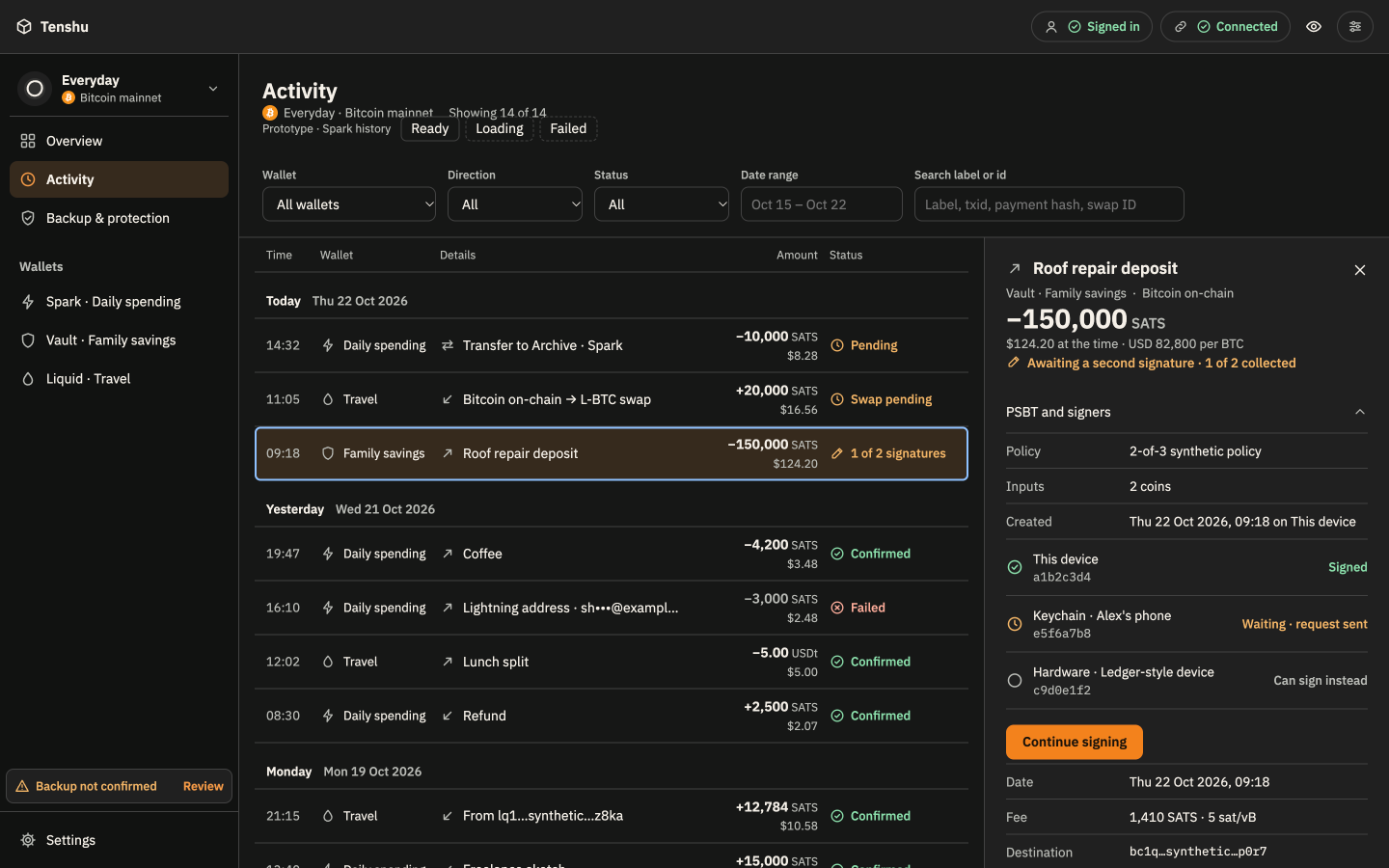
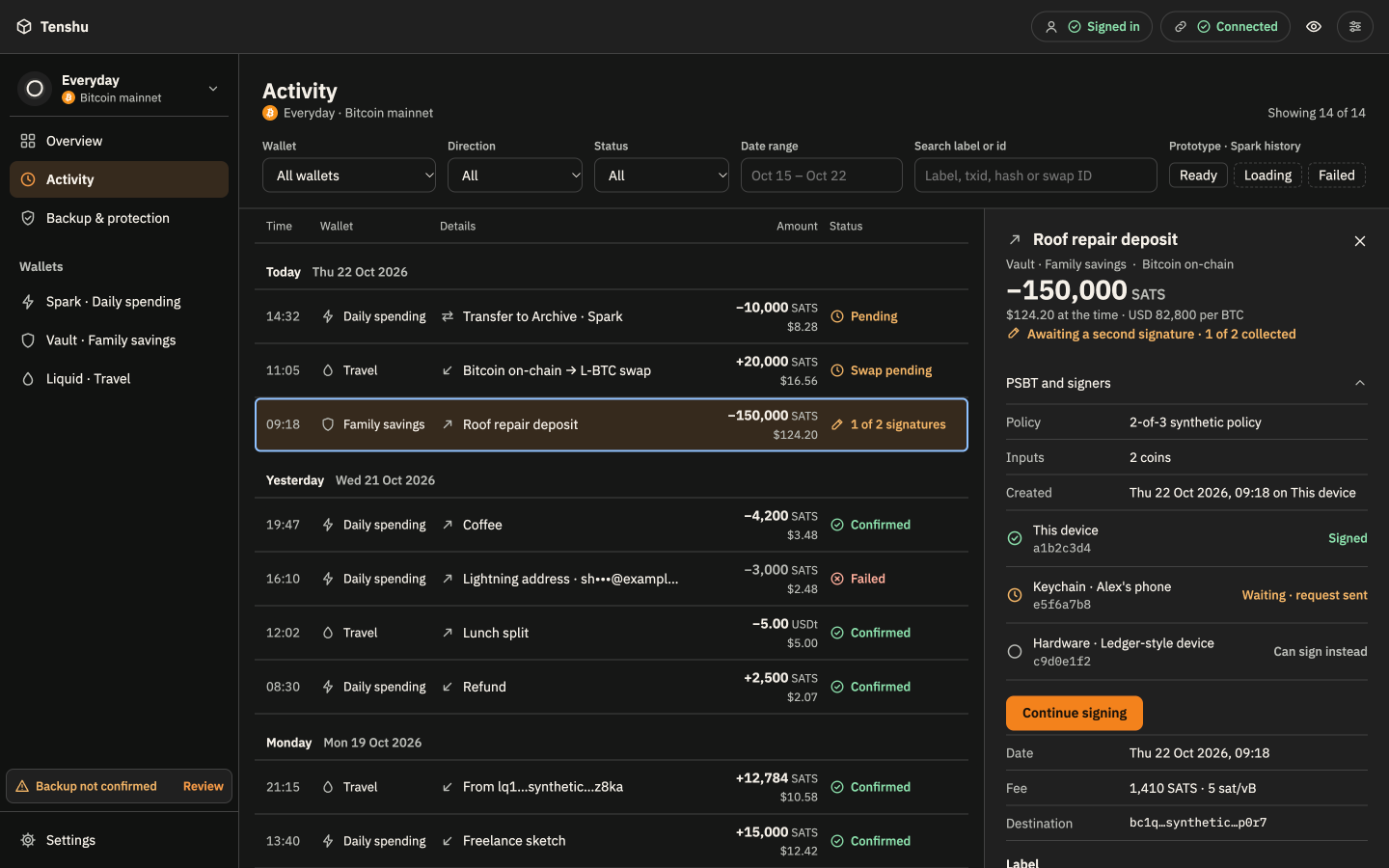
docs: tidy Activity header, drop This device scope, balance eye on Overview
Activity: prototype history states move to the end of the filter row and
the filter summary joins the result count. Settings loses the This device
scope; its only contents duplicated App preferences and Spark settings.
The Overview top bar gains the hide-balances eye every other Cube screen
has. Screens and sources updated to canvas v117.

diff --git a/design-review/canvas/P-Settings.dc.html b/design-review/canvas/P-Settings.dc.html
@@ -272,7 +272,6 @@ a.brand{color:inherit;text-decoration:none;border-radius:6px}a.brand:hover{color
           <sc-for list="{{ scopes }}" as="s" hint-placeholder-count="4">
             <button type="button" class="sb" aria-pressed="{{ s.pressed }}" title="{{ s.label }}" onClick="{{ s.pick }}">
               <sc-if value="{{ s.cube }}" hint-placeholder-val="{{ true }}"><svg class="ic s" aria-hidden="true" viewBox="0 0 18 18"><path d="M9 1.75 15.5 5.5v7L9 16.25 2.5 12.5v-7z"/><path d="M2.5 5.5 9 9.25l6.5-3.75M9 9.25v7"/></svg></sc-if>
-              <sc-if value="{{ s.device }}" hint-placeholder-val="{{ false }}"><svg class="ic s" aria-hidden="true" viewBox="0 0 18 18"><rect x="2" y="3" width="14" height="9.5" rx="1.5"/><path d="M6 15.5h6M9 12.5v3"/></svg></sc-if>
               <sc-if value="{{ s.vault }}" hint-placeholder-val="{{ false }}"><svg class="ic s" aria-hidden="true" viewBox="0 0 18 18"><path d="M9 2 3.5 4v4.5c0 3.4 2.3 6.1 5.5 7.5 3.2-1.4 5.5-4.1 5.5-7.5V4z"/></svg></sc-if>
               <sc-if value="{{ s.spark }}" hint-placeholder-val="{{ false }}"><svg class="ic s" aria-hidden="true" viewBox="0 0 18 18"><path d="M10 2 4 10h4.5L8 16l6-8H9.5z"/></svg></sc-if>
               <span>{{ s.label }}</span>
@@ -422,16 +421,6 @@ a.brand{color:inherit;text-decoration:none;border-radius:6px}a.brand:hover{color
               <div class="row"><div class="rl"><p class="lb">Labels</p><p class="ds">Standard format other wallets can read.</p></div><div class="rc"><button type="button" class="btn">Export…</button><button type="button" class="btn">Import…</button></div></div>
               <div class="row"><div class="rl"><p class="lb">Transactions</p><p class="ds">CSV. Fiat uses this Cube’s rate source.</p></div><div class="rc"><button type="button" class="btn">Export…</button></div></div>
               <div class="row"><div class="rl"><p class="lb">Plaintext descriptor</p><p class="ds">For hardware registration or other wallets.</p></div><div class="rc"><button type="button" class="btn">Export…</button></div></div>
-            </div>
-          </section>
-        </sc-if>
-
-        <!-- ======== THIS DEVICE ======== -->
-        <sc-if value="{{ sec.device }}" hint-placeholder-val="{{ false }}">
-          <section class="grp" aria-label="This device">
-            <div class="rows">
-              <div class="row"><div class="rl"><p class="lb">App preferences live in the Launcher</p></div><div class="rc"><a class="btn" href="P-AppPrefs.dc.html">Open App preferences</a></div></div>
-              <div class="row"><div class="rl"><p class="lbl-line"><span class="lb">Spark · Stable Balance</span><span class="st {{ dev.cls }}"><svg class="ic s" aria-hidden="true" viewBox="0 0 18 18"><circle class="gc" cx="9" cy="9" r="6.5"/><path class="g go" d="M6 9h6"/></svg>{{ dev.status }}</span></p><p class="ds">{{ dev.text }}</p></div><div class="rc"><sc-if value="{{ has.spark }}" hint-placeholder-val="{{ true }}"><button type="button" class="btn" onClick="{{ go.spark }}">Review in Spark</button></sc-if></div></div>
             </div>
           </section>
         </sc-if>
@@ -684,7 +673,7 @@ a.brand{color:inherit;text-decoration:none;border-radius:6px}a.brand:hover{color
 </div>
 <p style="margin:12px 24px 0;font-size:12px;color:var(--muted)">More Settings screens: <a href="P-GapsAccount.dc.html" style="font-size:12px;color:var(--muted);text-decoration:underline;text-underline-offset:3px;margin-right:12px">Recovery Kit mode, alerts scope, Avatar</a><a href="P-GapsWallets.dc.html" style="font-size:12px;color:var(--muted);text-decoration:underline;text-underline-offset:3px;margin-right:12px">Node settings extras, RBF, feerate, Vault overview states</a><a href="P-GapsDetails.dc.html" style="font-size:12px;color:var(--muted);text-decoration:underline;text-underline-offset:3px;margin-right:12px">Banners, checkout, Add to Cubes, Spark guard, batch label, share wallet, split entry</a></p>
 </x-dc>
-<script type="text/x-dc" data-dc-script data-props='{"theme":{"editor":"enum","options":["dark","light"],"default":"dark","section":"Review"},"reducedMotion":{"editor":"boolean","default":false,"section":"Review"},"hideBalances":{"editor":"boolean","default":false,"section":"Review"},"scope":{"editor":"enum","options":["cube","device","vault","spark"],"default":"cube","section":"Review"},"section":{"editor":"enum","options":["display","backup","payments","ai","data","wallet","node","pair","connections","spark"],"default":"display","section":"Review"},"reviewState":{"editor":"enum","options":["normal","loading","signedOut","cubeDisconnected","offlineNode","noVault","importedVault","testnetSparkUnavailable","longNames","saveFailure"],"default":"normal","section":"Review"},"pairStep":{"editor":"enum","options":["idle","picker","waiting","error","paired"],"default":"idle","section":"Review"},"lnState":{"editor":"enum","options":["existing","claim","checking","signed-out","disconnected","error"],"default":"existing","section":"Review"},"alertsState":{"editor":"enum","options":["auto","verified","unknown","signedOut","denied"],"default":"auto","section":"Review"},"$preview":{"width":1440,"height":900}}'>
+<script type="text/x-dc" data-dc-script data-props='{"theme":{"editor":"enum","options":["dark","light"],"default":"dark","section":"Review"},"reducedMotion":{"editor":"boolean","default":false,"section":"Review"},"hideBalances":{"editor":"boolean","default":false,"section":"Review"},"scope":{"editor":"enum","options":["cube","vault","spark"],"default":"cube","section":"Review"},"section":{"editor":"enum","options":["display","backup","payments","ai","data","wallet","node","pair","connections","spark"],"default":"display","section":"Review"},"reviewState":{"editor":"enum","options":["normal","loading","signedOut","cubeDisconnected","offlineNode","noVault","importedVault","testnetSparkUnavailable","longNames","saveFailure"],"default":"normal","section":"Review"},"pairStep":{"editor":"enum","options":["idle","picker","waiting","error","paired"],"default":"idle","section":"Review"},"lnState":{"editor":"enum","options":["existing","claim","checking","signed-out","disconnected","error"],"default":"existing","section":"Review"},"alertsState":{"editor":"enum","options":["auto","verified","unknown","signedOut","denied"],"default":"auto","section":"Review"},"$preview":{"width":1440,"height":900}}'>
 class Component extends DCLogic {
   constructor(p){
     super(p); try { const bump = () => { try { this.setState({ protoTick: Date.now() }); } catch (e) {} }; window.addEventListener('tenshu-proto', bump); window.addEventListener('storage', bump); } catch (e) {}
@@ -713,7 +702,6 @@ class Component extends DCLogic {
     // scope + section: levers seed it, in-page clicks override until a lever changes
     const SC={
       cube:{label:'Cube · '+cubeName,line:'Cube · '+cubeName+' · '+net,tabs:[['display','Display & appearance'],['backup','Backup & protection'],['payments','Payment checks'],['ai','AI access'],['data','Data & exports']]},
-      device:{label:'This device',line:'This device · every Cube on This Mac',tabs:[]},
       vault:{label:noVault?'Vault · none':'Vault · '+vaultAlias,line:(noVault?'Vault · none in this Cube':'Vault · '+vaultAlias)+' · '+net,tabs:[['wallet','Wallet & signers'],['node','Node'],['pair','Pair with Keychain'],['connections','Connections'],['data','Data & exports']]},
       spark:{label:hasSpark?'Spark · Daily spending':'Spark · unavailable',line:(hasSpark?'Spark · Daily spending':'Spark · unavailable')+' · '+net,tabs:[['spark','Spark'],['connections','Connections']]}
     };
@@ -723,7 +711,7 @@ class Component extends DCLogic {
     const sel=(S.sel&&S.sel.for===key)?S.sel:lever;
     const scope=sel.scope,tab=sel.tab,cs=SC[scope];
     const setTo=(sc,tb)=>()=>self.setState({sel:{for:key,scope:sc,tab:fit(sc,tb||'')}});
-    const scopes=['cube','device','vault','spark'].map(k=>({label:SC[k].label,pressed:k===scope?'true':'false',pick:setTo(k),cube:k==='cube',device:k==='device',vault:k==='vault',spark:k==='spark'}));
+    const scopes=['cube','vault','spark'].map(k=>({label:SC[k].label,pressed:k===scope?'true':'false',pick:setTo(k),cube:k==='cube',vault:k==='vault',spark:k==='spark'}));
     const emptyScope=(scope==='vault'&&noVault)||(scope==='spark'&&!hasSpark);
     const tabs=cs.tabs.map(t=>({label:t[1],cur:t[0]===tab?'page':'false',cls:t[0]===tab?'on':'',pick:setTo(scope,t[0])}));
     const goNode=setTo('vault','node');
@@ -732,7 +720,6 @@ class Component extends DCLogic {
     const on=(sc,tb)=>!loading&&scope===sc&&tab===tb;
     const sec={
       display:on('cube','display'),dataVault:on('vault','data')&&hasVault,backup:on('cube','backup'),payments:on('cube','payments'),ai:on('cube','ai'),dataCube:on('cube','data'),
-      device:!loading&&scope==='device',
       wallet:on('vault','wallet')&&hasVault,node:on('vault','node')&&hasVault,pair:on('vault','pair')&&hasVault,connVault:on('vault','connections')&&hasVault,
       vaultNone:!loading&&scope==='vault'&&noVault,
       spark:on('spark','spark')&&hasSpark,connSpark:on('spark','connections')&&hasSpark,sparkNone:!loading&&scope==='spark'&&!hasSpark
@@ -894,12 +881,11 @@ class Component extends DCLogic {
       lock:{idle:!S.lockAsk,asking:!!S.lockAsk,ask:()=>self.setState({lockAsk:true}),cancel:()=>self.setState({lockAsk:false})},
       chip:chip,hideP:pr(hide),shown:!hide,hidden:hide,toggleHide:()=>self.setState({hide:{for:hb,v:!hide}}),
       has:{spark:hasSpark,vault:hasVault,liquid:!testnet},attn:attn,go:go,
-      scopeLine:cs.line,scopeLabel:cs.label,scopeHasNet:scope!=='device',scopes:scopes,tabs:tabs,showTabs:cs.tabs.length>0&&!emptyScope,
+      scopeLine:cs.line,scopeLabel:cs.label,scopeHasNet:true,scopes:scopes,tabs:tabs,showTabs:cs.tabs.length>0&&!emptyScope,
       loading:loading,skel:[{a:'width:40%',b:'width:65%;margin-top:8px'},{a:'width:30%',b:'width:50%;margin-top:8px'},{a:'width:45%',b:'width:60%;margin-top:8px'},{a:'width:35%',b:'width:40%;margin-top:8px'}],
       sec:sec,form:form,avatar:avatar,bk:bk,alerts:alerts,noVault:noVault,offline:offline,imported:imported,
       chk:chk,strictP:pr(S.strict),strictText:S.strict?'On':'Off',togStrict:()=>self.setState({strict:!S.strict}),
       dataVaultText:noVault?'No Vault in this Cube.':'Exported per Vault.',
-      dev:hasSpark?{cls:'s-off',status:'Off',text:'Doesn’t travel with the seed.'}:{cls:'s-off',status:'Not available',text:'Spark isn’t available on Testnet4.'},
       signers:signers,aliasClean:!aliasDirty,aliasMsg:aliasDirty?'Unsaved name changes':'',
       aliasDiscard:()=>self.setState({aliases:{for:rs,v:savedA}}),aliasSave:()=>self.setState({aliasSaved:{for:rs,v:curA}}),
       pair:pair,pairKeys:pairKeys,phones:phones,noop:()=>{},

diff --git a/design-review/canvas/P-Activity.dc.html b/design-review/canvas/P-Activity.dc.html
@@ -70,7 +70,9 @@ a{color:#f3821d}a:hover{color:#ffa54d}
 .phd h1{font-size:22px;font-weight:600;line-height:1.25}
 .idl{color:var(--muted);font-size:13px;margin-top:4px;display:flex;align-items:center;gap:6px}
 .idl>img{width:16px;height:16px;display:block}
-.count{margin-left:auto;font-size:13px;color:var(--muted)}
+.phd{justify-content:space-between}
+.phr{display:flex;align-items:center;gap:10px;white-space:nowrap}
+.count{font-size:13px;color:var(--muted)}
 .pre{font-size:13px;color:var(--muted);padding:6px 24px 0}
 .filters{flex:none;display:flex;align-items:flex-end;gap:12px;padding:16px 24px;border-bottom:1px solid var(--line)}
 .f{display:flex;flex-direction:column;gap:4px}
@@ -79,8 +81,8 @@ a{color:#f3821d}a:hover{color:#ffa54d}
 .ctl:hover{border-color:var(--muted)}
 select.ctl{padding-right:6px;cursor:pointer}
 .f.w{width:180px}.f.d{width:140px}.f.s{width:140px}.f.r{width:168px}.f.q{flex:1;min-width:150px;max-width:280px}
+.f.pst{margin-left:auto;flex:none}.f.pst .flab{font-size:12px;font-weight:500;color:var(--muted)}.pbs{display:flex;align-items:center;gap:6px;height:36px}
 .f .ctl{width:100%}
-.fend{margin-left:auto;display:flex;align-items:center;gap:10px;height:36px;white-space:nowrap}
 .fcount{font-size:13px;font-weight:500}
 .lbtn{border:0;background:none;padding:4px 6px;color:var(--acc-ink);font-weight:600;cursor:pointer;border-radius:6px;font-size:13px}
 .lbtn:hover{background:var(--hover)}
@@ -173,8 +175,6 @@ select.ctl{padding-right:6px;cursor:pointer}
 
 /* prototype links */
 .tenshu a.chip{color:var(--ink);text-decoration:none}.tenshu a.chip:hover{background:var(--hover,var(--selected))}.tenshu a.ni,.tenshu a.row{color:var(--ink);text-decoration:none}.tenshu a.pill,.tenshu a.rlink,.tenshu a.attn{text-decoration:none}.tenshu span.mini{display:inline-flex;align-items:center}
-.proto{display:flex;align-items:center;flex-wrap:wrap;gap:6px;margin-top:12px}
-.proto .pl{font-size:12px;color:var(--muted);margin-right:4px}
 .pb{height:26px;padding:0 10px;border:1px dashed var(--line);border-radius:6px;background:transparent;color:var(--muted);font-size:12px;cursor:pointer}
 .pb[aria-pressed="true"]{color:var(--ink);border-style:solid}
 .av{display:inline-grid;place-items:center;width:32px;height:32px;border-radius:50%;background:var(--panel);color:var(--ink);flex:none}
@@ -201,9 +201,8 @@ select.ctl{padding-right:6px;cursor:pointer}
 .side .lockq p,.side .lockask>span{margin:0;flex:1 1 100%}
 .side .lockgrp{display:contents}
 a.brand{color:inherit;text-decoration:none;border-radius:6px}a.brand:hover{color:var(--acc-ink)}
-/* declutter (Robert, 2026-10-23): one amount cell, lighter detail panel, prototype strip under the title */
+/* declutter (Robert, 2026-10-23): one amount cell, lighter detail panel; prototype states sit at the end of the filter row */
 .amt .fx{display:block;font-size:12px;font-weight:400;color:var(--muted);margin-top:1px}
-.proto.strip{padding:0 24px 10px;margin-top:-6px}
 .cpy{height:28px;width:28px;padding:0;justify-content:center;border-radius:6px}
 .ids li{padding:8px 0}
 .dl>div{padding:8px 0}
@@ -265,11 +264,13 @@ a.brand{color:inherit;text-decoration:none;border-radius:6px}a.brand:hover{color
           <h1>Activity</h1>
           <p class="idl"><img src="/_blob/dbbfc88f16f7cc27510d81f434c268ea" alt="">Everyday · Bitcoin mainnet</p>
         </div>
-        <p class="count" role="status">{{ countText }}</p>
-      </div>
-      <div class="proto strip" role="group" aria-label="Prototype states">
-        <span class="pl">Prototype · Spark history</span>
-        <sc-for list="{{ shOpts }}" as="o" hint-placeholder-count="3"><button type="button" class="pb" aria-pressed="{{ o.on }}" onClick="{{ o.pick }}">{{ o.label }}</button></sc-for>
+        <div class="phr">
+          <sc-if value="{{ hasFilters }}" hint-placeholder-val="{{ false }}">
+            <span class="fcount">{{ activeText }}</span>
+            <button type="button" class="lbtn" onClick="{{ clear }}">Clear filters</button>
+          </sc-if>
+          <p class="count" role="status">{{ countText }}</p>
+        </div>
       </div>
       <sc-if value="{{ preNote.show }}" hint-placeholder-val="{{ false }}"><p class="pre">{{ preNote.text }}</p></sc-if>
 
@@ -292,13 +293,11 @@ a.brand{color:inherit;text-decoration:none;border-radius:6px}a.brand:hover{color
         </div>
         <div class="f q">
           <label for="flt-q">Search label or id</label>
-          <input id="flt-q" class="ctl" type="search" autocomplete="off" placeholder="Label, txid, payment hash, swap ID" value="{{ f.q }}" onInput="{{ on.q }}">
+          <input id="flt-q" class="ctl" type="search" autocomplete="off" placeholder="Label, txid, hash or swap ID" value="{{ f.q }}" onInput="{{ on.q }}">
         </div>
-        <div class="fend">
-          <sc-if value="{{ hasFilters }}" hint-placeholder-val="{{ false }}">
-            <span class="fcount">{{ activeText }}</span>
-            <button type="button" class="lbtn" onClick="{{ clear }}">Clear filters</button>
-          </sc-if>
+        <div class="f pst" role="group" aria-label="Prototype states for Spark history">
+          <span class="flab">Prototype · Spark history</span>
+          <div class="pbs"><sc-for list="{{ shOpts }}" as="o" hint-placeholder-count="3"><button type="button" class="pb" aria-pressed="{{ o.on }}" onClick="{{ o.pick }}">{{ o.label }}</button></sc-for></div>
         </div>
       </form>
       <sc-if value="{{ dateErr }}" hint-placeholder-val="{{ false }}"><p class="ferr" id="flt-dates-err" style="padding:6px 24px 0">Use October 2026 days, like “Oct 15 – Oct 22”.</p></sc-if>

diff --git a/design-review/canvas/P-Overview.dc.html b/design-review/canvas/P-Overview.dc.html
@@ -204,6 +204,10 @@ a.brand{color:inherit;text-decoration:none;border-radius:6px}a.brand:hover{color
         <sc-if value="{{ conn.unk }}" hint-placeholder-val="{{ false }}"><span class="st unk end"><svg class="ic s" aria-hidden="true" viewBox="0 0 18 18"><circle cx="9" cy="9" r="6.5"/><path d="M7.2 7.2a1.9 1.9 0 1 1 2.6 1.75c-.5.25-.8.6-.8 1.15v.4M9 12.6v.01"/></svg>Not checked</span></sc-if>
         <sc-if value="{{ conn.warn }}" hint-placeholder-val="{{ false }}"><span class="st warn"><svg class="ic s" aria-hidden="true" viewBox="0 0 18 18"><path d="M9 2.5 16 15H2z"/><path d="M9 7.5v3M9 12.75v.01"/></svg>Reconnect required</span><button type="button" class="mini">Reconnect</button></sc-if>
       </div>
+      <button type="button" class="eye" aria-pressed="{{ hide.allP }}" aria-label="Hide balances" onClick="{{ toggleAll }}">
+        <sc-if value="{{ hide.allShown }}" hint-placeholder-val="{{ true }}"><svg class="ic" aria-hidden="true" viewBox="0 0 18 18"><path d="M1.75 9S4.5 4 9 4s7.25 5 7.25 5S13.5 14 9 14 1.75 9 1.75 9z"/><circle cx="9" cy="9" r="2.25"/></svg></sc-if>
+        <sc-if value="{{ hide.all }}" hint-placeholder-val="{{ false }}"><svg class="ic" aria-hidden="true" viewBox="0 0 18 18"><path d="M1.75 9S4.5 4 9 4s7.25 5 7.25 5S13.5 14 9 14 1.75 9 1.75 9z"/><circle cx="9" cy="9" r="2.25"/><path d="M3 3l12 12"/></svg></sc-if>
+      </button>
       <a class="chip" href="P-AppPrefs-InCube.dc.html" title="App preferences" aria-label="App preferences" style="padding:0 10px"><svg class="ic s muted" aria-hidden="true" viewBox="0 0 18 18"><path d="M3 5h12M3 9h12M3 13h12"/><circle cx="7" cy="5" r="1.6" fill="var(--panel)"/><circle cx="12" cy="9" r="1.6" fill="var(--panel)"/><circle cx="6" cy="13" r="1.6" fill="var(--panel)"/></svg></a>
     </div>
   </header>
@@ -529,7 +533,9 @@ class Component extends DCLogic {
       nv:{overview:nvi('overview'),activity:nvi('activity'),backup:nvi('backup'),spark:nvi('spark'),vault:nvi('vault'),liquid:nvi('liquid'),settings:nvi('settings')},
       attn:attn,
       pg:{overview:page==='overview',vault:page==='vault',spark:page==='spark',liquid:page==='liquid',activity:page==='activity',backup:page==='backup',settings:page==='settings'},
-      hide:{total:hide.total,totalShown:!hide.total,totalP:hide.total?'true':'false',wallets:hw,walletsShown:!hw,walletsP:hw?'true':'false'},
+      hide:{total:hide.total,totalShown:!hide.total,totalP:hide.total?'true':'false',wallets:hw,walletsShown:!hw,walletsP:hw?'true':'false',all:hide.total&&hw,allShown:!(hide.total&&hw),allP:(hide.total&&hw)?'true':'false'},
+      // top-bar eye hides every balance on the page; the section eyes stay as finer controls
+      toggleAll:()=>{const all=!(hide.total&&hide.wallets);self.setState({hide:{for:hb,total:all,wallets:all}});},
       toggleTotal:()=>self.setState({hide:{for:hb,total:!hide.total,wallets:hide.wallets}}),
       toggleWallets:()=>self.setState({hide:{for:hb,total:hide.total,wallets:!hide.wallets}}),
       total:{fiat:m('$41.70',hide.total),sats:m('50,360',hide.total)},
@@ -568,7 +574,6 @@ class Component extends DCLogic {
       })()),
       scopes:[
         {label:'Cube · '+cubeName,desc:'Display, backup, payment checks, exports'},
-        {label:'This device',desc:'App preferences and Stable Balance'},
         {label:'Connect account',desc:signedOut?'Signed out on this device':'alex@example.test · plan, devices and security'},
         {label:vName,desc:'Signers, Keychain pairing, node and maintenance'},
         {label:'Spark · Daily spending',desc:'Lightning Address and connection'}

diff --git a/design-review/canvas/P-Members.dc.html b/design-review/canvas/P-Members.dc.html
@@ -195,7 +195,6 @@ a.brand{color:inherit;text-decoration:none;border-radius:6px}a.brand:hover{color
           <p class="idl"><img src="/_blob/dbbfc88f16f7cc27510d81f434c268ea" alt="">Vault · Family savings · Bitcoin mainnet</p>
           <div class="scopes" role="group" aria-label="Settings scope">
             <button type="button" class="sb" aria-pressed="false">Cube · Everyday</button>
-            <button type="button" class="sb" aria-pressed="false">This device</button>
             <button type="button" class="sb" aria-pressed="true">Vault · Family savings</button>
             <button type="button" class="sb" aria-pressed="false">Spark · Daily spending</button>
           </div>

diff --git a/design-review/canvas/P-GapsAccount.dc.html b/design-review/canvas/P-GapsAccount.dc.html
@@ -237,7 +237,6 @@ a.brand{color:inherit;text-decoration:none;border-radius:6px}a.brand:hover{color
         <p class="idl"><img src="/_blob/dbbfc88f16f7cc27510d81f434c268ea" alt="">Everyday · Bitcoin mainnet</p>
         <div class="scopes" role="group" aria-label="Settings scope">
           <a class="scope on" aria-current="page" href="P-GapsAccount.dc.html">Cube · Everyday</a>
-          <a class="scope" href="P-Overview.dc.html">This device</a>
           <a class="scope" href="P-Connect.dc.html">Connect account</a>
           <a class="scope" href="P-Overview.dc.html">Vault · Family savings</a>
           <a class="scope" href="P-Overview.dc.html">Spark · Daily spending</a>

diff --git a/design-review/tenshu-launcher-and-settings-review.md b/design-review/tenshu-launcher-and-settings-review.md
@@ -755,3 +755,17 @@ While exporting, two regressions of mine surfaced. (1) Removing the cross-tab li
 **Robert:** make a PR with the updated designs exported so Codex can work with them.
 
 **Applied:** `screens/dark/` (34 boards, device settings at their defaults) and `screens/light/` (the Light theme page, 33 boards including the Launcher List view), indexed in `screens/README.md`, and linked from `HANDOFF.md`. The canvas sources in `canvas/` match canvas v113.
+
+## Activity header, Settings scopes, balance eye (2026-10-24, canvas v114–v117)
+
+**Robert:** the Activity header is messy; move Ready, Loading and Failed to the right of the search field.
+
+**Applied:** the title row now holds only the title, the Cube line and, on the right, the result count with "N filters active · Clear filters" when filters are on. The Spark history prototype states (Ready, Loading, Failed) sit at the end of the filter row, after Search. The search placeholder is shortened to "Label, txid, hash or swap ID" so it fits.
+
+**Robert:** the "This device" Settings scope is unnecessary; remove it.
+
+**Applied:** Settings scopes are now Cube, Vault and Spark. The scope held only a link to App preferences (reachable from the Cube top bar on every screen) and a Stable Balance status that duplicates Spark › Stable Balance. Removed from Settings, the Overview settings index, Members and the Recovery Kit gap screen. Device-wide preferences live only in App preferences.
+
+**Robert:** the eye for showing and hiding balances is missing from the top bar on some screens.
+
+**Applied:** the Overview, the one Cube screen without it, now has the top-bar eye; it hides every balance on the page, and the Total and Wallets section eyes remain as finer controls. Every Cube screen's top bar now reads: account chip, Cube service chip, eye, App preferences. For Codex: implement it as one Cube-wide hide-balances flag shared by every screen; the prototype keeps it per board.

diff --git a/design-review/HANDOFF.md b/design-review/HANDOFF.md
@@ -6,7 +6,7 @@ Read this file first, then the review doc, then the inventory.
 
 | What | Where |
 | --- | --- |
-| Live prototype (clickable, needs a signed-in claude.ai browser) | https://claude.ai/artifact/4DkSWQshpyXVu2kVrbneRz (canvas v113) |
+| Live prototype (clickable, needs a signed-in claude.ai browser) | https://claude.ai/artifact/4DkSWQshpyXVu2kVrbneRz (canvas v117) |
 | Exported screenshots of every screen, dark and light (open without a browser session) | `screens/dark/`, `screens/light/`, index in `screens/README.md` |
 | Artboard sources (35 linked screens plus their light twins, plain HTML + CSS + a small script each) | `canvas/*.dc.html`, index in `canvas/canvas.json` |
 | Earlier exploration boards the prototype was distilled from (superseded) | `archive/explorations/` |

diff --git a/design-review/screens/README.md b/design-review/screens/README.md
@@ -1,6 +1,6 @@
 # Exported screens
 
-Static PNG exports of every board in the Tenshu prototype (canvas v113,
+Static PNG exports of every board in the Tenshu prototype (canvas v117,
 2026-10-24), so the design can be read without a claude.ai session. Pixels only:
 exact copy, spacing, tokens and state logic are in `../canvas/<source>`.
 
